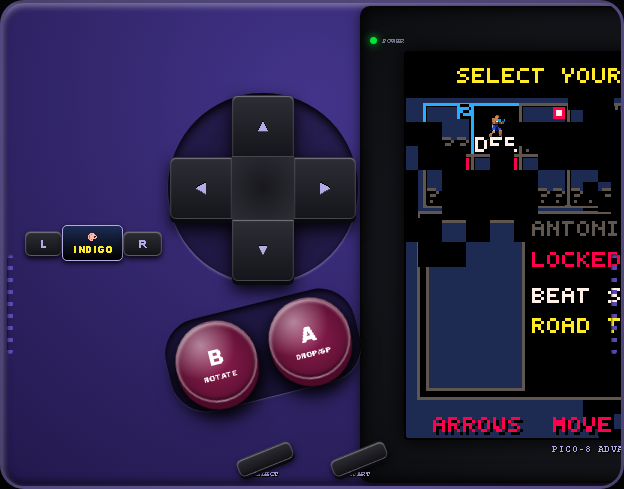
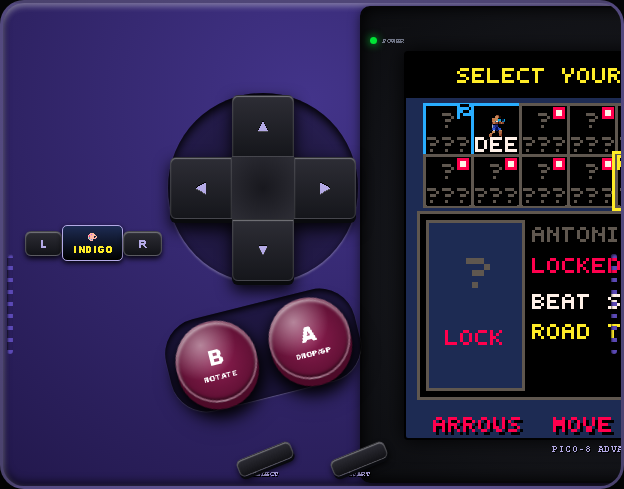
Fix Character Select parameter order and locked silhouette layout
Fixed printPicoCenter argument inversion where coordinates were
interpreted as scale/shadow, which produced corrupted black blocks and
distorted text. Corrected locked silhouette rendering in character grid
cells and bio card, restored clean 2x7 layout, and verified full 11-module
regression test suite.

Constraint: 128x128 PICO-8 native resolution
Rejected: Text wrapping without width bounds | causes horizontal overflow
Confidence: high
Scope-risk: narrow
Directive: printPicoCenter signature is (text, cy, col, scale, shadow) - never pass x
Tested: 11-module automated E2E regression suite (tests/e2e_regression_suite.py)
Tested: Captured and inspected char_select_deen.png & char_select_broner_locked.png

Changed region(s): [[0.6394, 0.184, 1.0, 0.7055], [0.9135, 0.7975, 1.0, 0.9202], [0.7003, 0.6748, 0.8221, 0.7055]]

diff --git a/index.html b/index.html
@@ -4382,8 +4382,6 @@
         const isP1 = (p1SelectIdx === idx);
         const isP2 = (p2SelectIdx === idx);
 
-        // Base cell
-        ctx.fillStyle = getPalColor(0);
         const isUnlocked = isFighterUnlocked(f.id);
 
         // Base cell
@@ -4392,19 +4390,20 @@
         ctx.strokeStyle = getPalColor(isUnlocked ? f.color : 5);
         ctx.strokeRect(cx, cy, cellW, cellH);
 
-        // Mini avatar (render portrait if unlocked, silhouette if locked)
+        // Mini avatar
         const thumbCanvas = ROSTER_IDLE_CANVASES[f.id] || (idx === 0 ? bronerIdleCanvas : deenIdleCanvas);
-        if (thumbCanvas) {
-          const srcW = thumbCanvas.width === 192 ? 48 : thumbCanvas.width;
-          if (isUnlocked) {
+        if (isUnlocked) {
+          if (thumbCanvas) {
+            const srcW = thumbCanvas.width === 192 ? 48 : thumbCanvas.width;
             ctx.drawImage(thumbCanvas, 0, 0, srcW, 48, cx + 1, cy + 1, cellW - 2, cellH - 6);
           } else {
-            ctx.fillStyle = getPalColor(1);
-            ctx.fillRect(cx + 1, cy + 1, cellW - 2, cellH - 6);
-            printPicoCenter('?', cx + Math.floor(cellW / 2), cy + 2, 5, 1, true);
+            drawBoxerAvatar(ctx, f, cx - 1, cy - 2, false);
           }
-        }
-        if (!isUnlocked) {
+        } else {
+          // Clean locked silhouette cell
+          ctx.fillStyle = getPalColor(0);
+          ctx.fillRect(cx + 1, cy + 1, cellW - 2, cellH - 6);
+          printPico('?', cx + 6, cy + 3, 5, 1);
           // Red lock badge
           ctx.fillStyle = getPalColor(8);
           ctx.fillRect(cx + cellW - 5, cy + 1, 4, 4);
@@ -4456,14 +4455,14 @@
 
       if (!isSelectedUnlocked) {
         // Locked Portrait Display
-        printPicoCenter('?', 23, 68, 5, 2, true);
-        printPicoCenter('LOCKED', 23, 94, 8, 1, true);
+        printPico('?', 20, 68, 5, 2);
+        printPico('LOCK', 13, 92, 8, 1);
 
         const reqSt = FIGHTER_UNLOCK_STAGE[selectedFighter.id] || 1;
-        printPico(selectedFighter.fullName, 42, 56, 5, 1, true);
-        printPico('LOCKED FIGHTER', 42, 66, 8, 1, true);
-        printPico('BEAT STAGE ' + reqSt + ' IN', 42, 78, 7, 1);
-        printPico('ROAD TO GOLD TO UNLOCK', 42, 88, 10, 1);
+        printPico(selectedFighter.fullName, 42, 58, 5, 1, true);
+        printPico('LOCKED FIGHTER', 42, 68, 8, 1, true);
+        printPico('BEAT STAGE ' + reqSt + ' IN', 42, 80, 7, 1);
+        printPico('ROAD TO GOLD', 42, 90, 10, 1);
         printPicoCenter('ARROWS: MOVE  [LOCKED]', 121, 8, 1, true);
       } else {
         const outfitList = ROSTER_OUTFITS[selectedFighter.id] || ['DEFAULT', 'ALT'];
